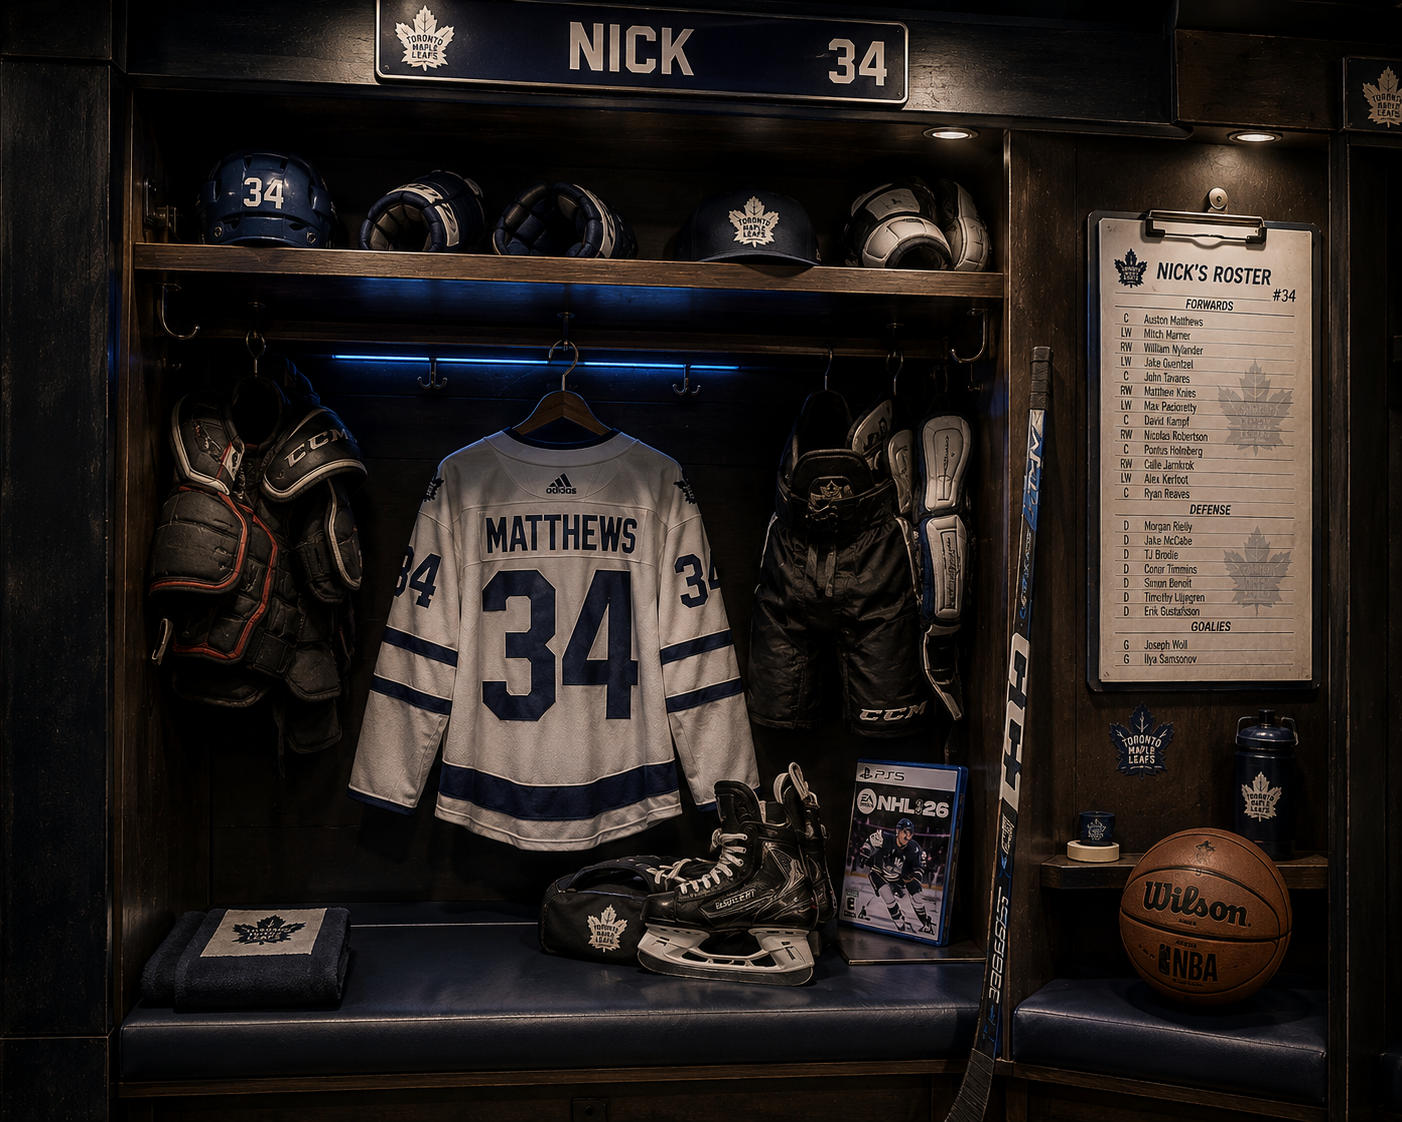
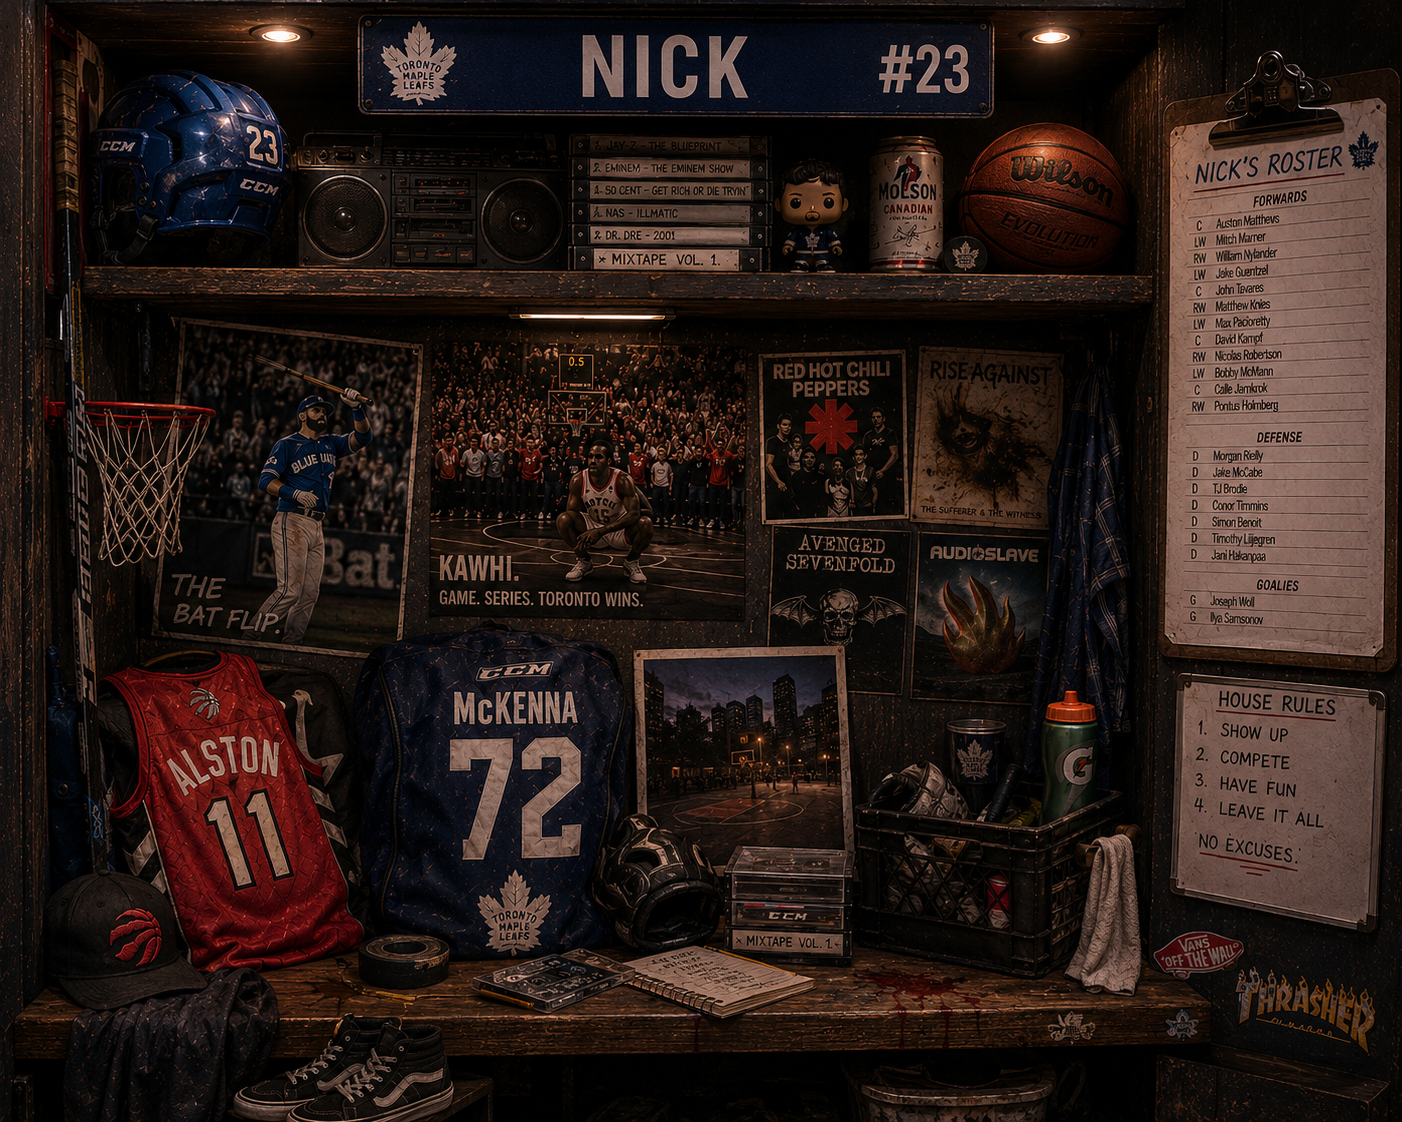
Add files via upload

diff --git a/assets/css/style.css b/assets/css/style.css
@@ -14906,15 +14906,33 @@ button:not(.primary):not(.danger),
 .live-roster-clipboard li em { grid-column:2; color:#67533e; font-style:normal; font-size:.75em; white-space:nowrap; overflow:hidden; text-overflow:ellipsis; }
 .walkable-empty-stall { padding:50px; text-align:center; color:#fff; min-height:420px; }
 @media (max-width: 980px) {
-  .walkable-room, .owner-stall-view { min-height:auto; }
-  .locker-room-bg { min-height:auto; padding:18px 12px 90px; }
+  .walkable-room, .owner-stall-view { min-height:auto; border-radius:18px; }
+  .locker-room-bg { min-height:auto; padding:18px 12px 74px; }
+  .room-title-block { margin:18px auto 18px; padding:0 6px; }
+  .room-title-block h3 { font-size:clamp(2rem,10vw,3.2rem); }
+  .room-title-block small { font-size:.82rem; line-height:1.35; }
+  .locker-hall { grid-template-columns:repeat(2,minmax(0,1fr)); gap:10px; }
+  .walk-stall { min-height:176px; transform:none !important; padding:12px 10px; border-radius:14px; }
+  .stall-name { margin-top:20px; font-size:.86rem; letter-spacing:.08em; padding:8px 5px; }
+  .stall-number { margin-top:14px; font-size:2.9rem; }
+  .stall-jersey { min-height:0; font-size:.72rem; margin-top:8px; }
+  .stall-count { bottom:48px; font-size:.74rem; }
+  .stall-action { left:12px; right:12px; bottom:12px; padding:8px; font-size:.72rem; }
+  .stall-toolbar { flex-direction:column; align-items:stretch; gap:10px; padding:12px; }
+  .walk-back { width:100%; }
+  .quick-stall-select { display:grid; grid-template-columns:repeat(3,minmax(0,1fr)); gap:6px; justify-content:stretch; }
+  .quick-stall-select button { padding:9px 6px; font-size:.72rem; }
+  .stall-image-stage { min-height:auto; overflow:visible; display:block; padding:0 0 12px; background:#050607; }
+  .owner-stall-img { min-width:0; width:100%; height:auto; object-fit:contain; display:block; }
+  .live-roster-clipboard { position:relative; left:auto; right:auto; top:auto; width:auto; min-width:0; max-height:none; overflow:visible; margin:12px; transform:none; padding:34px 14px 16px; border-radius:10px; }
+  .live-roster-clipboard h4 { font-size:1rem; }
+  .live-roster-clipboard li { font-size:.75rem; grid-template-columns:24px 1fr; }
+}
+@media (max-width: 520px) {
   .locker-hall { grid-template-columns:1fr; }
-  .walk-stall { min-height:190px; transform:none !important; }
-  .stall-number { margin-top:15px; font-size:3.5rem; }
-  .stall-jersey { min-height:0; }
-  .stall-toolbar { flex-direction:column; align-items:stretch; }
-  .quick-stall-select { justify-content:flex-start; }
-  .stall-image-stage { min-height:auto; overflow-x:auto; justify-content:flex-start; }
-  .owner-stall-img { min-width:1050px; }
-  .live-roster-clipboard { position:absolute; right:auto; left:760px; top:150px; width:270px; min-width:270px; }
+  .walk-stall { min-height:138px; }
+  .stall-number { position:absolute; right:16px; top:54px; margin:0; font-size:3rem; }
+  .stall-jersey { text-align:left; padding-right:76px; }
+  .quick-stall-select { grid-template-columns:repeat(2,minmax(0,1fr)); }
+  .room-floor { height:76px; font-size:.72rem; padding-bottom:14px; }
 }

diff --git a/index.html b/index.html
@@ -3591,10 +3591,10 @@
     ];
     const STALLS = {
       nick: {
-        image:'assets/images/locker-stall-nick.png',
-        number:'34',
-        jersey:'Matthews',
-        theme:'Maple Leafs • NHL 26 • basketball',
+        image:'assets/images/locker-stall-nick.png?v=148',
+        number:'72',
+        jersey:'McKenna / Rafer Alston',
+        theme:'Leafs • Raptors • Bat Flip • Kawhi • bands',
         ready:true
       },
       andrew: {
